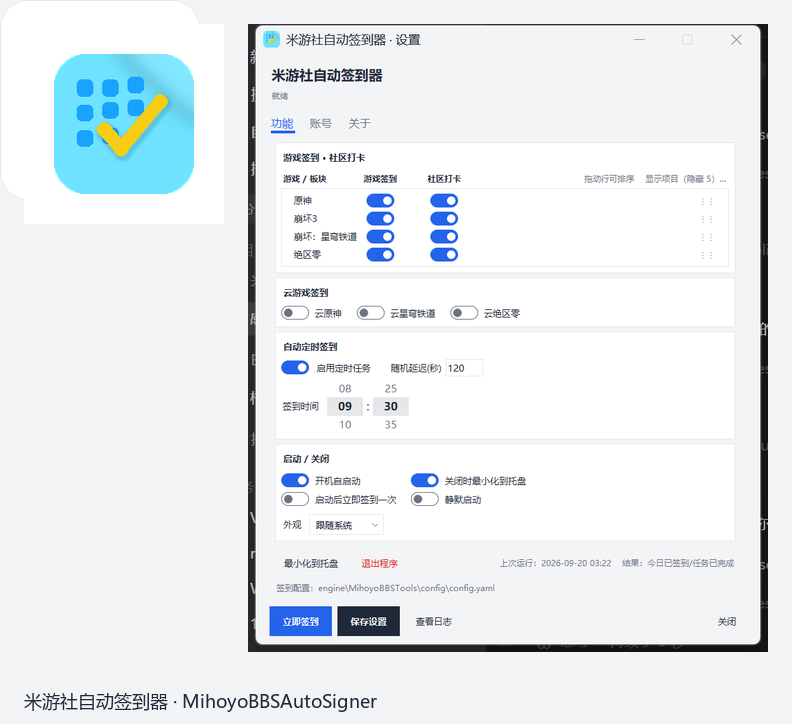
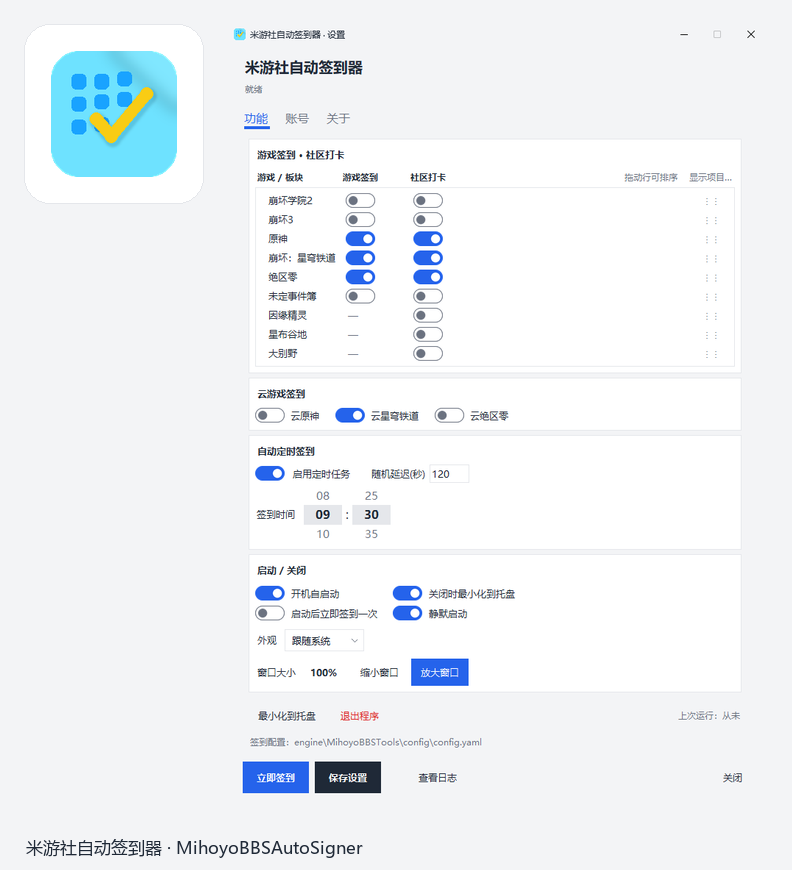
docs: README 同步 v2.0.0 界面（浅色 / 深色对照截图）
- 截图按当前卡片式界面重拍：功能页 + 账号页，浅色与深色各一套
  （原图是 v2.0.0-beta 之前拍的，此后 settings_ui 改了 1700+ 行）
- 截图改用「隐形窗口 + PrintWindow」抓取，并裁掉窗口外沿那圈黑边、
  补齐圆角，不再有多余边框
- 正文补齐现状：卡片式三页、拖动排序与「显示项目…」、滚轮选时、
  主题切换、窗口大小逐档缩放；米游币档位订正为 30 / 40 / 50
- 下载包目录结构补上 SECURITY.md 与 使用说明.txt

diff --git a/README.md b/README.md
@@ -9,34 +9,40 @@
 </p>
 
 <p align="center">
-  <img src="docs/assets/readme-hero.png" alt="icon and settings UI" width="720" />
+  <img src="docs/assets/readme-hero.png" alt="图标与设置界面" width="760" />
+</p>
+
+> **个人学习与自用。请遵守米哈游用户协议与当地法律。非官方项目。**
+
+## 界面
+
+<p align="center">
+  <img src="docs/assets/ui-settings.png" width="366" alt="功能页（浅色）" />
+  <img src="docs/assets/ui-settings-dark.png" width="366" alt="功能页（深色）" />
 </p>
 
 <p align="center">
-  <img src="docs/assets/ui-settings.png" alt="settings window" width="420" />
+  <img src="docs/assets/ui-account.png" width="366" alt="账号页（浅色）" />
+  <img src="docs/assets/ui-account-dark.png" width="366" alt="账号页（深色）" />
 </p>
-
-<p align="center">
-  <img src="docs/assets/ui-account.png" alt="account window" width="420" />
-</p>
-
-> **个人学习与自用。请遵守米哈游用户协议与当地法律。。非官方项目。**
 
 ## 功能
 
 - 托盘常驻；双击打开设置；可配置关闭时最小化到托盘
+- 设置界面为卡片式三页（功能 / 账号 / 关于），可切换浅色、深色或跟随系统
+- 游戏与板块清单可拖动排序，用不到的板块可在「显示项目…」里隐藏
+- 游戏签到：原神、崩坏：星穹铁道、绝区零、崩坏3、崩坏学院2、未定事件簿
 - 社区打卡（米游币规则见下）
-- 游戏签到：原神、星穹铁道、绝区零、崩坏2/3、未定事件簿
-- 云游戏签到：云原神、云星穹铁道、云绝区零（凭证自动获取，无需手动抓包）
-- 定时签到：到点后当天还没签成功会自动补签；当天签成功不重复执行；失败会自动重试
-- 开机自启动；静默启动（勾选后启动不弹窗，再双击一次程序即可打开窗口）
-- 短信验证码登录；登录后自动获取云游戏凭证
-- 账号区显示 UID 与米游社昵称
+- 云游戏签到：云原神、云星穹铁道、云绝区零（凭证在签到时自动获取，无需手动抓包）
+- 定时签到：滚轮选时 / 分并支持随机延迟；到点后当天还没签成功会自动补签，当天已签成功不重复执行，失败自动重试
+- 开机自启动；静默启动（勾选后启动不弹窗，再双击一次程序即可打开窗口）；启动后立即签到一次
+- 短信验证码登录；账号区显示 UID 与米游社昵称
+- 窗口大小可逐档缩放（70%~200%），缩放时窗口不重建、不闪屏
 - 首次运行自动生成配置文件，无需手动复制
 
 ## 米游币说明（2026-09 现状）
 
-- 米游币现在**只有社区打卡**发放：首日 30 枚，满三天40枚，满五天50枚
+- 米游币现在**只有社区打卡**发放：首日 30 枚，连续签到满三天 40 枚、满五天 50 枚
 - 点赞（2025-12）、分享（2026-03）、看帖（2026-03）的米游币奖励均已下线，因此本工具已移除点赞与分享
 - 拿满当日米游币只需完成社区打卡
 
@@ -52,7 +58,9 @@ MihoyoBBSAutoSigner/
 ├── engine/MihoyoBBSTools/     # 签到引擎
 ├── runtime/                   # 内置 Python 运行时（免安装）
 ├── README.md
-└── LICENSE
+├── SECURITY.md
+├── LICENSE
+└── 使用说明.txt
 ```
 
 首次使用：
@@ -81,19 +89,19 @@ cd TrayApp
 
 ```text
 MihoyoBBSAutoSigner/
-├── TrayApp/                 # 托盘 UI
+├── TrayApp/                 # 托盘 UI 与调度
 ├── engine/MihoyoBBSTools/   # 签到引擎（本地维护版）
 ├── docs/assets/             # README 截图与图标
 ├── README.md
-├── LICENSE
-└── SECURITY.md
+├── SECURITY.md
+└── LICENSE
 ```
 
 签到逻辑由 `engine/MihoyoBBSTools/main.py` 在子进程中执行；账号信息写入引擎的 `config/config.yaml`。
 
 ## 引擎说明
 
-`engine/MihoyoBBSTools` 基于开源项目 [Womsxd/MihoyoBBSTools](https://github.com/Womsxd/MihoyoBBSTools)（MIT）并包含本项目为适配当前客户端所做的本地修改（版本号、接口路径、请求头与结果输出等）。
+`engine/MihoyoBBSTools` 基于开源项目 [Womsxd/MihoyoBBSTools](https://github.com/Womsxd/MihoyoBBSTools)（MIT）并包含本项目为适配当前客户端所做的本地修改（版本号、接口路径、请求头与结果输出等）。**不向原仓库提交 PR。**
 
 ## 免责声明
 
